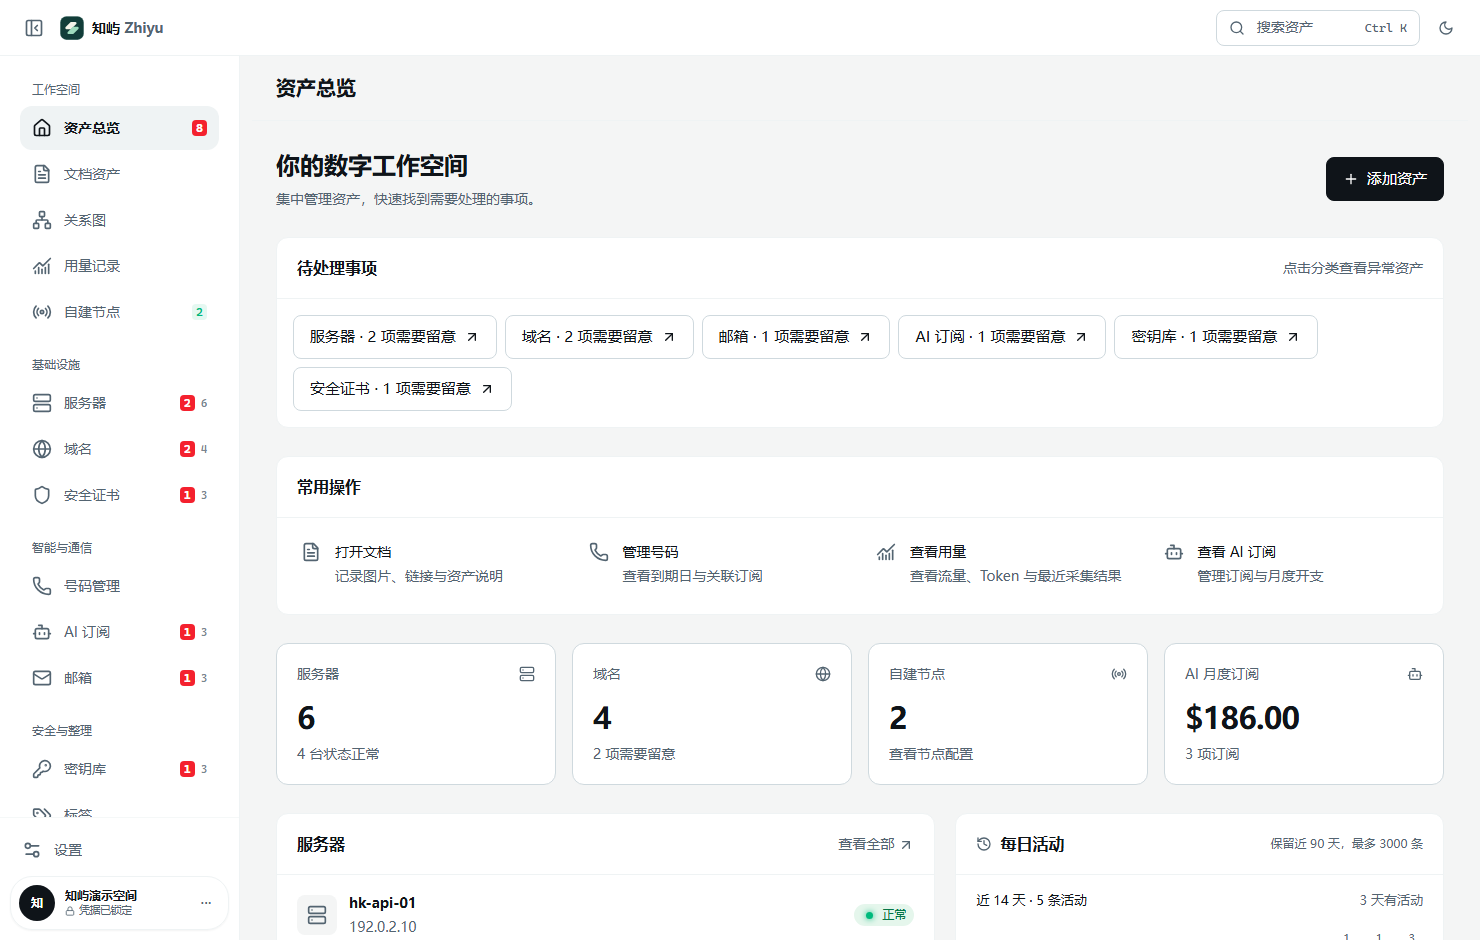
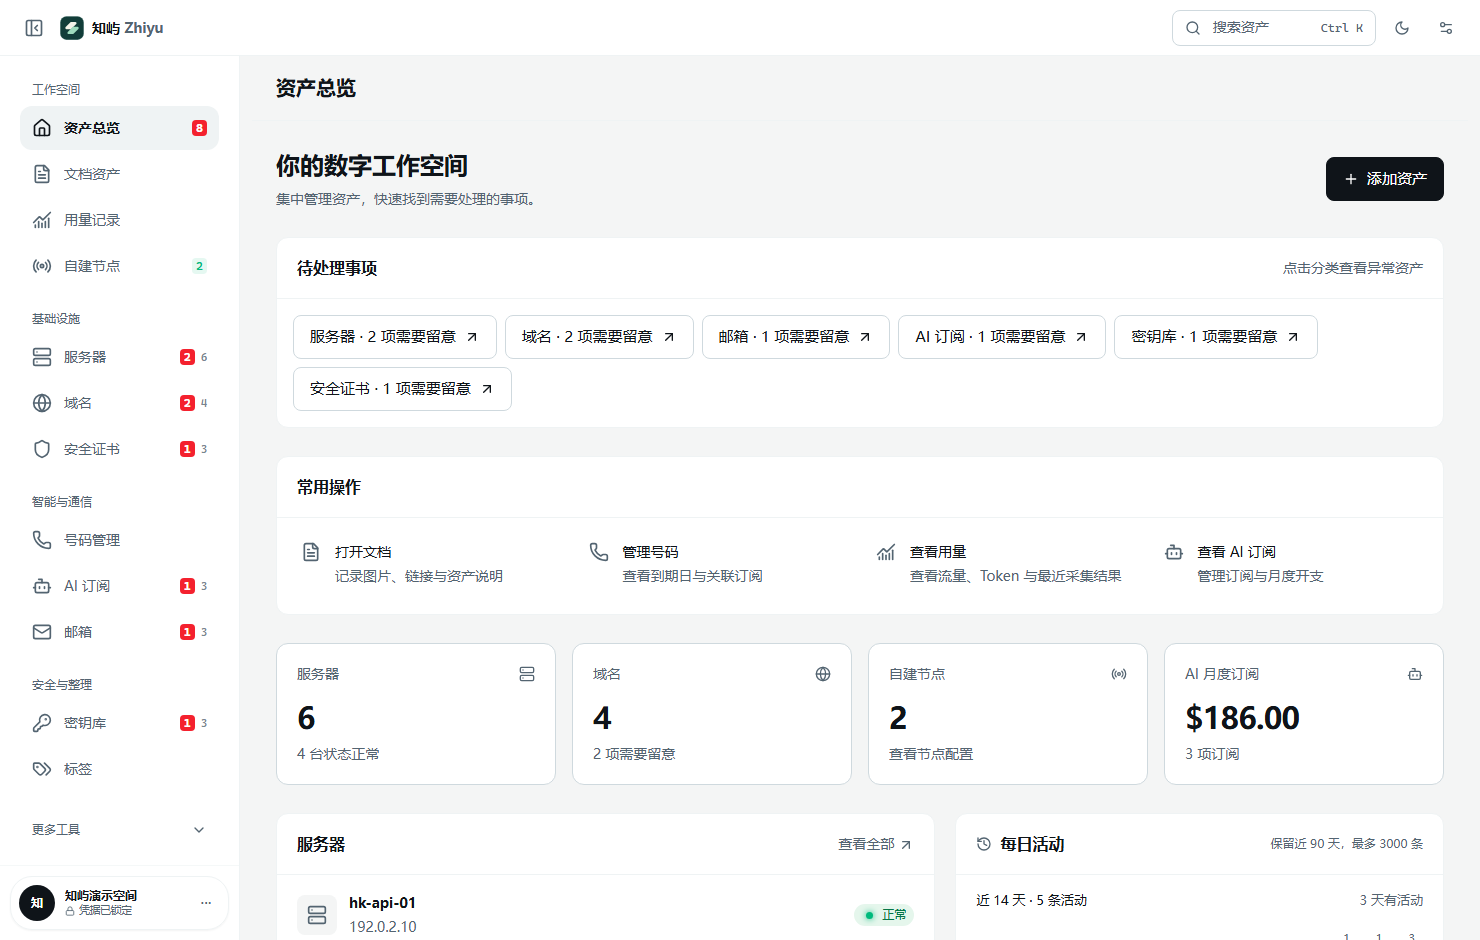
发布 1.5.1：精简左侧导航并恢复顶部设置入口

diff --git a/src/components/sidebar.tsx b/src/components/sidebar.tsx
@@ -17,8 +17,6 @@ import {
   Unlock,
   ChevronDown,
   Ellipsis,
-  Settings2,
-  Network,
   type LucideIcon,
 } from "lucide-react";
 import { useEffect, useMemo, useRef, useState, type HTMLAttributes } from "react";
@@ -55,7 +53,6 @@ export const NAV_GROUPS: NavGroup[] = [
     items: [
       { id: "overview", label: "资产总览", icon: House, badgeKey: "total" },
       { id: "docs", label: "文档资产", icon: FileText },
-      { id: "relations", label: "关系图", icon: Network },
       { id: "usage", label: "用量记录", icon: ChartNoAxesCombined },
       { id: "nodes", label: "自建节点", icon: Radio, countKey: "nodes" },
     ],
@@ -296,7 +293,7 @@ export function Sidebar({
           ))}
         </nav>
 
-        {/* 安全与设置始终固定在导航底部，收起后仍可直接操作。 */}
+        {/* 密钥库入口固定在导航底部，收起后仍可直接操作。 */}
         <div className="sidebar-profile-footer mt-auto shrink-0 space-y-1 border-t border-line/60 p-2.5">
           <SidebarUtilities compact={collapsed} />
           <ProfileMenu compact={collapsed} />
@@ -322,11 +319,6 @@ function SidebarUtilities({ compact }: { compact: boolean }) {
           },
         ]
       : []),
-    {
-      label: t("设置"),
-      icon: Settings2,
-      action: () => useAppStore.getState().setSettingsOpen(true),
-    },
   ];
   return entries.map(({ label, icon: Icon, action }) => (
     <Tooltip.Root key={label}>

diff --git a/src/components/title-bar.tsx b/src/components/title-bar.tsx
@@ -1,5 +1,5 @@
 import { useEffect, useState } from "react";
-import { Search, Sun, Moon, Menu, PanelLeftClose, PanelLeftOpen } from "lucide-react";
+import { Search, Sun, Moon, Settings2, Menu, PanelLeftClose, PanelLeftOpen } from "lucide-react";
 import { WindowControls } from "./window-controls";
 import { LogoMark } from "./logo";
 import { desktop } from "@/lib/desktop";
@@ -10,6 +10,7 @@ import { t } from "@/lib/i18n";
 export function TitleBar() {
   const bridge = desktop();
   const setCommandOpen = useAppStore((s) => s.setCommandOpen);
+  const setSettingsOpen = useAppStore((s) => s.setSettingsOpen);
   const resolved = useSettings((s) => s.resolved);
   const setTheme = useSettings((s) => s.setTheme);
   const sidebarCollapsed = useSettings((s) => s.sidebarCollapsed);
@@ -80,6 +81,14 @@ export function TitleBar() {
           onClick={() => setTheme(resolved === "dark" ? "light" : "dark")}
         >
           {resolved === "dark" ? <Sun className="size-4" /> : <Moon className="size-4" />}
+        </button>
+        <button
+          type="button"
+          className="chrome-action"
+          aria-label={t("系统设置…")}
+          onClick={() => setSettingsOpen(true)}
+        >
+          <Settings2 className="size-4" />
         </button>
         {bridge && <WindowControls />}
       </div>

diff --git a/src/lib/changelog.ts b/src/lib/changelog.ts
@@ -13,6 +13,15 @@ export interface Release {
 
 export const RELEASES: Release[] = [
   {
+    version: "1.5.1",
+    date: "2026-10-08",
+    title: "精简左侧导航，恢复顶部设置入口",
+    changes: [
+      "移除左侧主导航中的独立关系图选项，通过资产分类页的关系图模式查看已保存的关联。",
+      "系统设置恢复到顶部主题切换按钮旁；侧栏底部保留密钥库解锁与锁定入口。",
+    ],
+  },
+  {
     version: "1.5.0",
     date: "2026-10-08",
     title: "文档导航、真实资源关系与更连贯的日常体验",

diff --git a/README.md b/README.md
@@ -12,19 +12,16 @@
 
 喜欢知屿的话，欢迎 [Star 本项目](https://github.com/Songwo/nanpad)、提交 Issue 或贡献改进。
 
-## 1.5.0 更新
+## 1.5.1 更新
 
-- Markdown 导入移入文档「＋」菜单，任意页面均可拖入文件；阅读区增加目录、章节定位、进度及首尾跳转。
-- 设置与锁库入口固定在侧栏底部；点击账号整行可查看详情，锁定时就地解锁并继续操作。调整折叠导航的图标、选中背景与间距。
-- 关系图同时展示已保存的资产关联与文档绑定；本机「发现关联」列出匹配依据，确认后才保存。
-- AI 错误可重试；可生成文档局部修改、账号名称／标签及关联建议，逐项预览、确认后应用，写入前检查资料是否已变化。
-- 用量页通过「采集与监控」打开配置，图表与明细保持在主页面。复用统计快照和检索索引，文档保存、删除及批量导入按篇更新列表缓存；自动远程采集与主机检查按时间复用结果，手动刷新仍立即请求。
+- 系统设置恢复到窗口顶部的原入口；解锁／锁定密钥库继续位于侧栏底部。
+- 左侧导航移除独立「关系图」入口。在资产分类页通过卡片／表格旁的「关系图」切换显示方式；「标签 → 关系图 → 全部资源」可查看包含未绑定文档的全部资源。
 
-具体范围见 [1.5.0 发布说明](docs/releases/v1.5.0.md)。1.4.0 的默认本机监控、应用内更新和浏览器密码迁移继续保留；1.2.3 用户需先安装一次新版，后续版本可在应用内更新。
+具体调整见 [1.5.1 发布说明](docs/releases/v1.5.1.md)。1.5.0 的文档导入与目录、就地解锁、真实关联、AI 修改建议和缓存优化继续保留，详见 [1.5.0 发布说明](docs/releases/v1.5.0.md)。1.4.0 起支持应用内更新；1.2.3 用户需先安装一次新版。
 
 ## 安装与首次使用
 
-1. 在 GitHub Releases 下载 `Nanpad-1.5.0-setup.exe`，适用于 Windows x64。
+1. 在 GitHub Releases 下载 `Nanpad-1.5.1-setup.exe`，适用于 Windows x64。
 2. 运行安装程序，选择安装位置。当前安装包未做代码签名，请核对发布者、下载地址和 Release 中的 SHA256 校验文件。
 3. 首次启动可直接使用默认工作区名称，创建至少 10 个字符的主密码并再次确认；无需注册，头像可在设置中补充。主密码不能找回。
 4. 已有密钥库的用户确认工作区名称及原主密码即可继续，升级不会自动删除资产或演示记录。
@@ -123,7 +120,7 @@ flowchart LR
 
 在「密钥库 → 浏览器密码」可与 Chrome / Edge 通过官方 CSV 双向迁移。先预览新增、完全重复、冲突和无效记录，再确认加密导入；同站不同账号分别保存，同账号的密码冲突默认跳过，不覆盖已有记录。导出的 CSV 含明文密码，只用于浏览器密码管理器导入，完成后应删除文件。
 
-1.5.0 配套插件通过一次性配对码连接桌面端。登录页自动建议与当前协议、域名、端口匹配的账号，选择后填写可见登录框，由你核对并提交。「登录时自动采集」默认开启：提交登录表单后，点击页面或插件里的保存按钮即可直接加密保存，无需在桌面重复录入；同账号同密码去重，不同密码保留独立版本。密码通过认证的本机连接传输，不放进网址，配对令牌不进入网页；锁库、撤销连接或退出后需重新配对。
+1.5.1 配套插件通过一次性配对码连接桌面端。登录页自动建议与当前协议、域名、端口匹配的账号，选择后填写可见登录框，由你核对并提交。「登录时自动采集」默认开启：提交登录表单后，点击页面或插件里的保存按钮即可直接加密保存，无需在桌面重复录入；同账号同密码去重，不同密码保留独立版本。密码通过认证的本机连接传输，不放进网址，配对令牌不进入网页；锁库、撤销连接或退出后需重新配对。
 
 插件可分别关闭登录采集、账号建议和文档提示，不读取浏览器原生密码库、Cookie 或历史记录。填写只支持 HTTPS 与本机开发页，不向隐藏字段、注册/改密表单、iframe 或第三方 OAuth 流程填写。支持的文档页会提示保存，点击后只读取已加载的可见文字与来源链接；不下载未加载的原生文档或持续同步线上编辑。旧插件的桌面待确认队列继续兼容。安装、权限与排错见 [浏览器助手教程](docs/BROWSER-EXTENSION.md)。
 
@@ -178,7 +175,7 @@ npm run build
 npm run desktop:dist -- --win --x64 --publish never
 ```
 
-安装包输出到 `release/v版本号/`，本版为 `release/v1.5.0/`。`npm run extension:build` 生成配套浏览器扩展目录。打包排除后端测试文件；日常资产、私钥和登录令牌不属于构建输入。发布流程见 [发布说明](docs/RELEASING.md)，本版变化见 [v1.5.0 发布说明](docs/releases/v1.5.0.md)。
+安装包输出到 `release/v版本号/`，本版为 `release/v1.5.1/`。`npm run extension:build` 生成配套浏览器扩展目录。打包排除后端测试文件；日常资产、私钥和登录令牌不属于构建输入。发布流程见 [发布说明](docs/RELEASING.md)，本版变化见 [v1.5.1 发布说明](docs/releases/v1.5.1.md)。
 
 ## 项目结构
 

diff --git a/docs/USER-GUIDE.md b/docs/USER-GUIDE.md
@@ -2,17 +2,17 @@
 
 ## 安装与升级
 
-本教程对应 1.5.0。从仓库 Releases 下载 `Nanpad-1.5.0-setup.exe`，适用于 Windows x64。安装后打开知屿，新用户可以使用默认工作区名称，设置至少 10 位主密码；无需注册，头像可稍后设置。升级用户输入原主密码完成资料设置。不要删除数据目录来解决启动问题，先备份再排查。
+本教程对应 1.5.1。从仓库 Releases 下载 `Nanpad-1.5.1-setup.exe`，适用于 Windows x64。安装后打开知屿，新用户可以使用默认工作区名称，设置至少 10 位主密码；无需注册，头像可稍后设置。升级用户输入原主密码完成资料设置。不要删除数据目录来解决启动问题，先备份再排查。
 
 在「设置 → 个人资料」修改名字或头像，点击「保存」后生效；在「设置 → 密钥库」修改主密码。修改主密码需要原密码。关闭窗口默认进入托盘，托盘菜单可以重新打开、锁库或退出。
 
-「设置」和「解锁密钥库／锁定密钥库」固定在左侧导航底部，收起导航后仍可点击对应图标。需要凭据的操作会直接弹出解锁框，解锁后继续原操作，取消时保留当前页面。本次运行内无需因保存或切换页面重复解锁；手动锁定、系统锁屏、休眠或退出后会重新锁定，不保存主密码用于下次自动解锁。
+点击窗口顶部的「系统设置…」图标打开设置。「解锁密钥库／锁定密钥库」固定在左侧导航底部，收起导航后仍可点击对应图标。需要凭据的操作会直接弹出解锁框，解锁后继续原操作，取消时保留当前页面。本次运行内无需因保存或切换页面重复解锁；手动锁定、系统锁屏、休眠或退出后会重新锁定，不保存主密码用于下次自动解锁。
 
 在「设置 → 关于 → 软件更新」检查新版本，点击「下载更新」查看进度。完整下载并校验后，点击「重启并安装」；软件先保存文档，再安装到当前目录并重新打开。下载失败可重试，原数据目录继续使用。旧版 1.2.3 尚无应用内安装能力，需要先安装一次 1.4.0 或更新版本，之后的版本即可在应用内更新。Windows 若提示系统权限确认，请按安装器提示操作。
 
 ## 浏览器密码与文档助手
 
-「密钥库 → 浏览器密码」可与 Chrome / Edge 双向迁移密码 CSV，预览不显示密码，重复与冲突分别提示。同一网站的多个账号独立保存；导入冲突默认跳过，避免覆盖已有密码。配套 1.5.0 插件自动建议本站账号，选择后填写；登录采集和网页文档保存只需一次确认。详细步骤、浏览器设置地址及功能边界见[浏览器助手教程](BROWSER-EXTENSION.md)。
+「密钥库 → 浏览器密码」可与 Chrome / Edge 双向迁移密码 CSV，预览不显示密码，重复与冲突分别提示。同一网站的多个账号独立保存；导入冲突默认跳过，避免覆盖已有密码。配套 1.5.1 插件自动建议本站账号，选择后填写；登录采集和网页文档保存只需一次确认。详细步骤、浏览器设置地址及功能边界见[浏览器助手教程](BROWSER-EXTENSION.md)。
 
 浏览器导出和知屿导出的 CSV 都包含明文密码，导入完成后删除文件。插件不会直接读取浏览器原生密码库。登录填写仍需你选择账号并提交；文档保存的是当前已加载、可读取的正文快照与来源，不会绕过文档权限，也不是原生文档持续同步。
 
@@ -90,7 +90,7 @@
 
 资产支持多个标签。搜索与标签可以组合使用；卡片适合浏览、表格适合排序比较、关系图适合看连接。详情中建立关联后，两端都能跳转。需要留意的事项可导出 ICS，导入常用日历。
 
-左侧「关系图」同时展示资产与文档。实线表示已保存的资产关联，虚线表示已保存的文档绑定，点击节点可打开对应资料；同名或共同标签不会直接变成关系。分类页的图也会带出与当前资产相连的其他类型，方便查看完整组合。
+在服务器等资产分类页，通过卡片／表格旁的「关系图」按钮切换显示方式；图中会带出与当前资产相连的其他类型，方便查看完整组合。需要查看全部资源时，进入左侧「标签」，选择「关系图」后点击「全部资源」，未绑定文档也会显示。实线表示已保存的资产关联，虚线表示已保存的文档绑定，点击节点可打开对应资料；同名或共同标签不会直接变成关系。
 
 点击「管理资源关联」，在「新增关联」选择两项资源并保存；在「已确认关联」中可解除关联，资料本身继续保留。「发现关联」根据相同主机地址、非通用的共同标签或文档标题完整提及资产名称给出本机建议，显示匹配依据，勾选确认后才写入。此匹配不读取账号凭据或文档正文，也不请求模型。当前不支持文档与文档直接连线，可以把多篇文档绑定到共同账号或服务器。画布最多显示 300 项资源，超过时需要缩小筛选范围。
 

diff --git a/docs/RELEASING.md b/docs/RELEASING.md
@@ -14,7 +14,7 @@
 
 ## 版本准备
 
-更新 package.json、package-lock.json、browser-extension/manifest.json 与 src/lib/changelog.ts，执行 `node scripts/write-changelog.mjs` 同步 CHANGELOG.md。本版说明保存在 `docs/releases/v1.5.0.md`。README 的安装包名、构建目录及教程应与版本一致；描述实际支持范围，不将本机协议测试写成真实账号登录成功。
+更新 package.json、package-lock.json、browser-extension/manifest.json 与 src/lib/changelog.ts，执行 `node scripts/write-changelog.mjs` 同步 CHANGELOG.md。本版说明保存在 `docs/releases/v1.5.1.md`。README 的安装包名、构建目录及教程应与版本一致；描述实际支持范围，不将本机协议测试写成真实账号登录成功。
 
 ## 必须验证
 
@@ -46,7 +46,7 @@ npm run desktop:dist -- --win --x64 --publish never
 
 打包脚本将主进程及编译后的界面放入系统临时目录中的独立暂存区，使用仓库锁文件版本安装 `ssh2`、`imapflow`、`openai`、`minisearch`、`nodemailer`、`mailparser`、`html-to-text`、`sanitize-html` 及其运行依赖，再通过 electron-builder 内置的目录遍历器收集依赖，避免将网页构建工具装进桌面包。排除可选原生加速模块，SSH 使用库自带的 JavaScript 实现；无需 Visual Studio 编译环境。复用本机已安装的同版本 Electron，输出到 `release/v版本号/`；构建结束清理暂存区。
 
-安装包生成后检查版本和包内容，运行 `node scripts/release-smoke.mjs release/v1.5.0/win-unpacked/Nanpad.exe` 验证打包程序，计算 SHA256，补齐 Release 说明中的验证记录。该脚本使用独立临时数据目录，不修改日常资料。发布时显式选择源码、文档和必要资源，不提交临时截图、日志、用户数据或运行目录。将发布标签指向已经验证的提交，再上传 `Nanpad-1.5.0-setup.exe`、浏览器扩展包与 `SHA256SUMS.txt`，以及下文要求的应用内更新附件。
+安装包生成后检查版本和包内容，运行 `node scripts/release-smoke.mjs release/v1.5.1/win-unpacked/Nanpad.exe` 验证打包程序，计算 SHA256，补齐 Release 说明中的验证记录。该脚本使用独立临时数据目录，不修改日常资料。发布时显式选择源码、文档和必要资源，不提交临时截图、日志、用户数据或运行目录。将发布标签指向已经验证的提交，再上传 `Nanpad-1.5.1-setup.exe`、浏览器扩展包与 `SHA256SUMS.txt`，以及下文要求的应用内更新附件。
 
 1.3.1 的 Windows 正式发布流水线额外运行 `passwords-desktop-integration.mjs` 验证实际打包程序的 CSV、加密库、后台资产同步、锁库与文档保存，并在 `extension:build` 后运行 `browser-companion-integration.mjs` 加载真实扩展，覆盖原生表单整页导航、多账号填写与文档提示。依赖中文界面标签的 Electron 测试必须显式设置 `locale: "zh-CN"`，不能依赖开发机的系统语言。测试只使用独立临时资料和合成账号，不读取真实浏览器密码库；真实浏览器原生 CSV 导入结果与第三方在线文档兼容性应单独记录。
 
@@ -76,7 +76,7 @@ node scripts/vault-usability-integration.mjs
 正式包生成后，另运行工作区集成验证：
 
 ```bash
-node scripts/workspace-v150-integration.mjs release/v1.5.0/win-unpacked/Nanpad.exe
+node scripts/workspace-v150-integration.mjs release/v1.5.1/win-unpacked/Nanpad.exe
 ```
 
 该命令从参数指定的实际程序启动，核对版本并使用独立临时资料；通过本机合成模型服务验证文档修改、账号元信息修改与关系提案的真实主进程链路，不使用日常凭据或真实模型额度。省略程序参数会启动源码主进程，不能替代正式包验证。
@@ -86,3 +86,7 @@ node scripts/workspace-v150-integration.mjs release/v1.5.0/win-unpacked/Nanpad.e
 密钥库检查整行打开账号、取消／错误／正确解锁后继续操作、主动锁定及再次隐藏凭据。导航在明暗主题、不同缩放和窄窗口下检查图标与选中背景居中、阴影边界、滚动区域和固定底部入口；文档与弹窗动画须尊重减少动态效果设置。
 
 AI 回归用本机合成模型服务，验证失败重试采用当前配置与权限、建议只读预览、确认写入、重复应用与过期拒绝，以及并发编辑后的版本冲突。`npm test` 包含文档、关系、缓存和修改提案单元测试；不能以协议回归通过宣称用户的真实 API Key 或服务商鉴权已经修复。Release 验证记录须在实际命令结束后填写，并区分开发预览、打包程序及真实账号验证范围。
+
+## 1.5.1 导航入口验证
+
+检查窗口顶部「系统设置…」可打开设置，侧栏底部保留解锁／锁定密钥库，且侧栏不再显示独立关系图入口。进入「标签 → 关系图 → 全部资源」确认资产、未绑定文档和已保存关联仍可查看；服务器等分类页的卡片／表格／关系图切换继续可用。历史版本发布说明保留其当时的入口描述，不改写为新版行为。

diff --git a/docs/releases/v1.5.1.md b/docs/releases/v1.5.1.md
@@ -1,0 +1,15 @@
+# 知屿 Zhiyu 1.5.1
+
+调整两个导航入口：系统设置恢复到窗口顶部，关系图保留在资产页的显示方式中。
+
+- 点击顶部「系统设置…」打开设置；侧栏底部继续提供解锁／锁定密钥库。
+- 左侧导航移除独立「关系图」入口。可在资产分类页通过卡片／表格旁的「关系图」切换；「标签 → 关系图 → 全部资源」可查看包含未绑定文档的全部资源，已保存关联与关联管理功能保留。
+
+1.5.0 的文档导入与目录、就地解锁、AI 修改建议和缓存优化继续保留。可在「设置 → 关于」检查并下载更新，或使用本版 Windows x64 安装包覆盖升级；配套浏览器插件版本同步为 1.5.1。
+
+## 验证
+
+- 类型检查、国际化检查及 755 项自动测试通过；Lint 无错误，保留 19 条已有警告。
+- 网页开发与生产构建均通过桌面、390 像素窄窗口检查，无页面错误或横向溢出，生产检查与开发基线一致。
+- 实际打包的 1.5.1 程序验证顶部原位置设置可打开、侧栏移除独立设置与关系图入口，保留关系图及文档、账号、关联提案操作；14 次本机 HTTP 请求通过真实 SDK 链路，全部断言通过。密钥库交互及侧栏在 100%、125%、150% 缩放、明暗主题下的居中检查通过。
+- 集成验证使用隔离资料与合成账号，不读取日常凭据或消耗真实模型额度。

diff --git a/CHANGELOG.md b/CHANGELOG.md
@@ -3,6 +3,13 @@
 > 本文件由 `node scripts/write-changelog.mjs` 从 `src/lib/changelog.ts` 生成，
 > 请改那个文件而不是这里 —— 应用内的「设置 → 更新日志」读的是同一份数据。
 
+## 1.5.1 — 精简左侧导航，恢复顶部设置入口
+
+*2026-10-08*
+
+- 移除左侧主导航中的独立关系图选项，通过资产分类页的关系图模式查看已保存的关联。
+- 系统设置恢复到顶部主题切换按钮旁；侧栏底部保留密钥库解锁与锁定入口。
+
 ## 1.5.0 — 文档导航、真实资源关系与更连贯的日常体验
 
 *2026-10-08*
